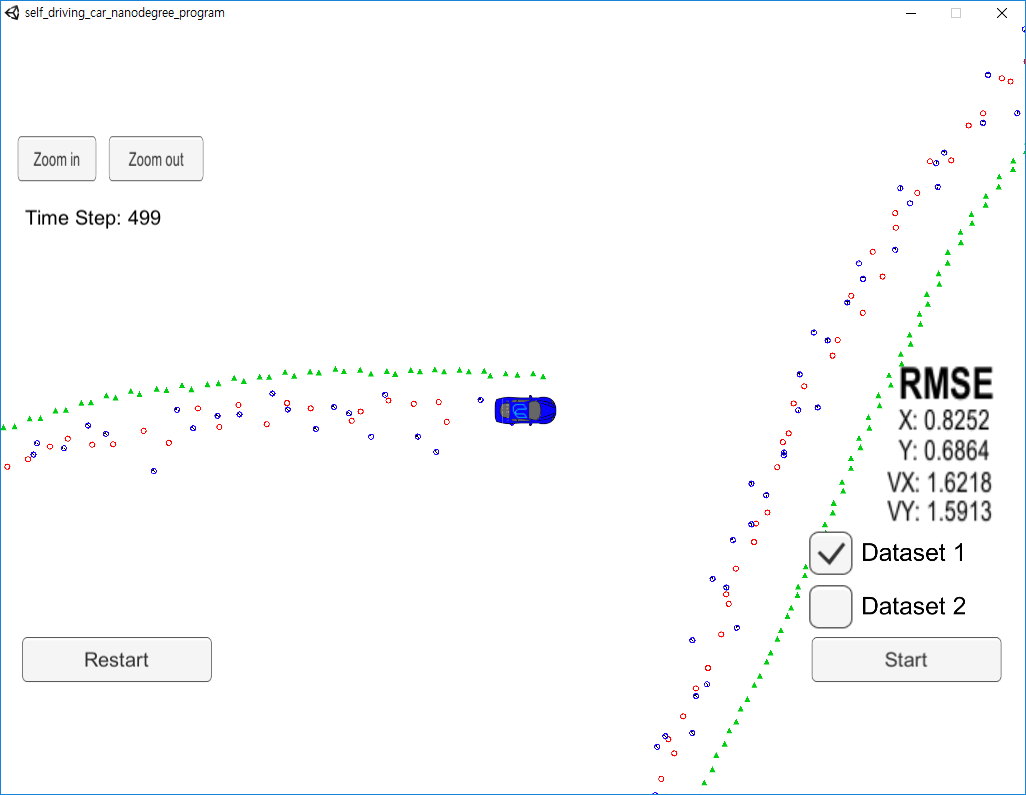
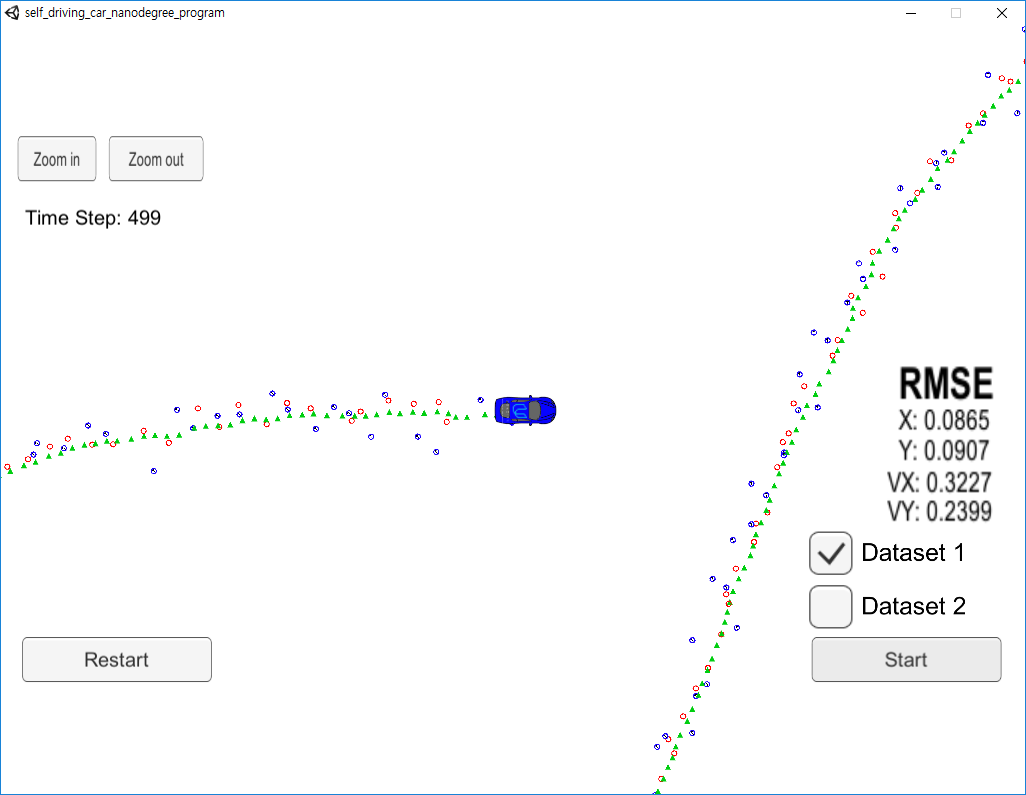
update result image and source

Changed region(s): [[0.9045, 0.5132, 0.9669, 0.6642], [0.6238, 0.9962, 0.655, 1.0]]

diff --git a/src/ukf.cpp b/src/ukf.cpp
@@ -26,14 +26,14 @@ UKF::UKF() {
   P_ = MatrixXd::Zero(5, 5);
 
   // Process noise standard deviation longitudinal acceleration in m/s^2
-  std_a_ = .5;
+  std_a_ = 2.0;
 
   // Process noise standard deviation yaw acceleration in rad/s^2
-  std_yawdd_ = .05;
+  std_yawdd_ = .18;
   
   //DO NOT MODIFY measurement noise values below these are provided by the sensor manufacturer.
   // Laser measurement noise standard deviation position1 in m
-  std_laspx_ = 0.15;
+  std_laspx_ = 0.12;
 
   // Laser measurement noise standard deviation position2 in m
   std_laspy_ = 0.15;
@@ -82,14 +82,14 @@ UKF::~UKF() {}
 void UKF::InitializeMeasurement(MeasurementPackage meas_package) {
   cout << "InitializeMeasurement starts" << endl;
   // initialize variables
-  x_ << 1, 1, 1, 1, 1;
+  x_ << 0, 0, 0, 0, 0;
 
   // for LIDAR data
   if (meas_package.sensor_type_ == MeasurementPackage::LASER && use_laser_) {
     double px = meas_package.raw_measurements_(0);
     double py = meas_package.raw_measurements_(1);
 
-    x_ << px, py, 1, 1, 1;
+    x_ << px, py, sqrt((px*px+py*py)), 0, 0;
   }
   // for RADAR data
   if (meas_package.sensor_type_ == MeasurementPackage::RADAR && use_radar_) {
@@ -105,11 +105,11 @@ void UKF::InitializeMeasurement(MeasurementPackage meas_package) {
     x_ << px, py, vx, vy, 1;
   }
 
-  P_ << 1, 0., 0., 0., 0.,
-        0., 1, 0., 0., 0.,
+  P_ << .01, 0., 0., 0., 0.,
+        0., .01, 0., 0., 0.,
         0., 0., 1, 0., 0.,
-        0., 0., 0., 1, 0.,
-        0., 0., 0., 0., 1;
+        0., 0., 0., .01, 0.,
+        0., 0., 0., 0., .01;
 
   // initialize previous time
   time_us_ = meas_package.timestamp_;
@@ -202,7 +202,7 @@ void UKF::Prediction(double delta_t) {
   // create augmented sigma points
   for(int i = 0; i < n_aug_; i++) {
     Xsig_aug.col(i+1) = x_aug + sqrt(lambda_ + n_aug_) * L.col(i);
-    Xsig_aug.col(n_aug_+i+1) = x_aug + sqrt(lambda_ + n_aug_) * L.col(i);
+    Xsig_aug.col(n_aug_+i+1) = x_aug - sqrt(lambda_ + n_aug_) * L.col(i);
   }
 
   /////////////////////////////
@@ -427,7 +427,7 @@ void UKF::UpdateRadar(MeasurementPackage meas_package) {
   MatrixXd K = Tc * S.inverse();
 
   // residual
-  VectorXd z_diff = z - z_pred;
+  VectorXd z_diff = z - Zsig.col(0); //z_pred;
 
   // normalize angle
   z_diff(1) = NormalizeAngle(z_diff(1));
